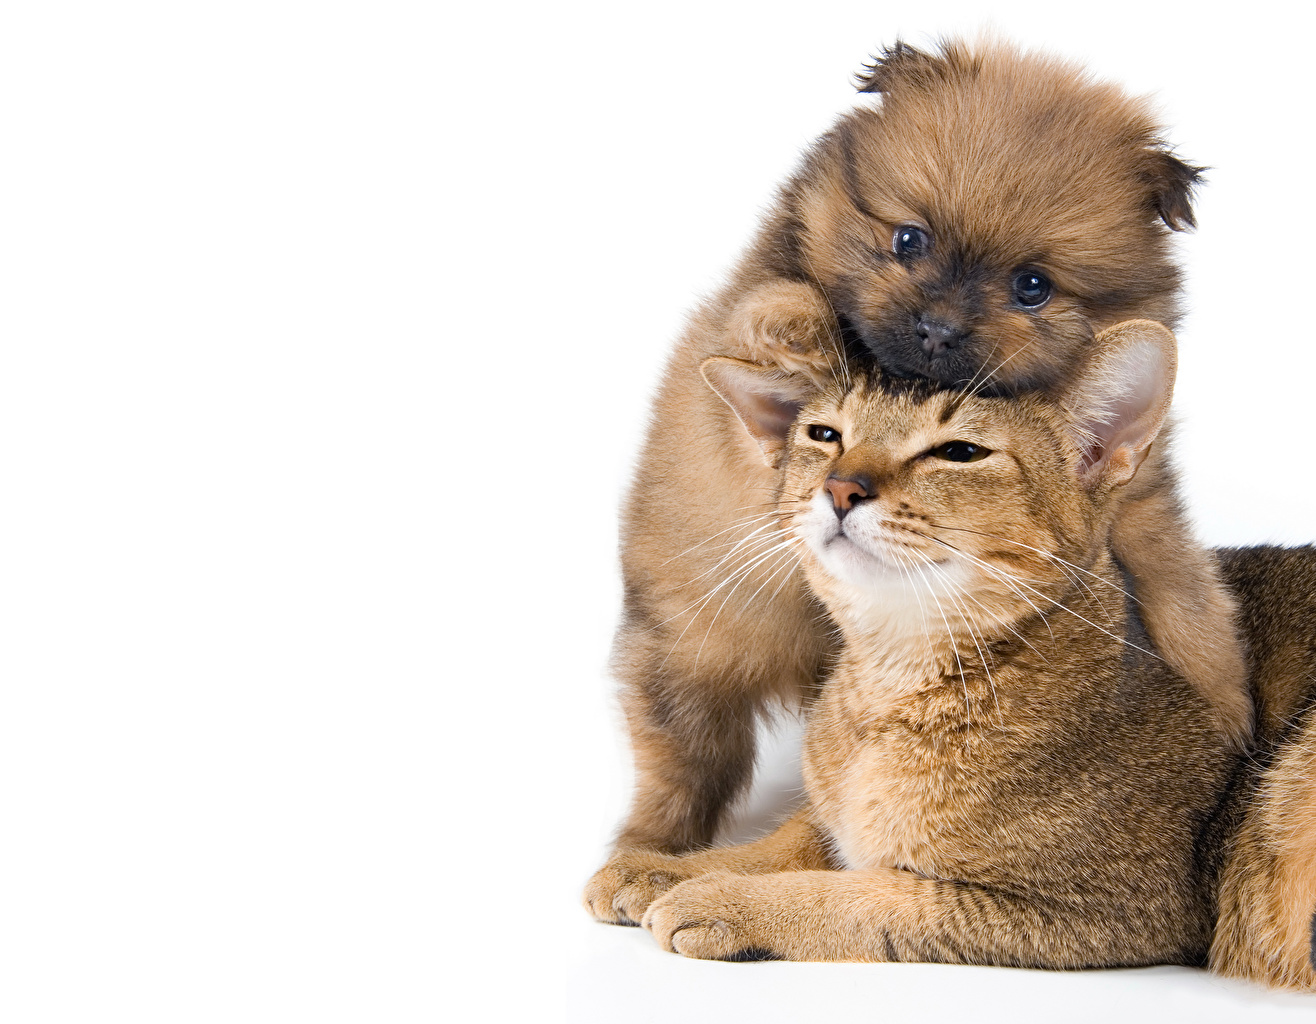
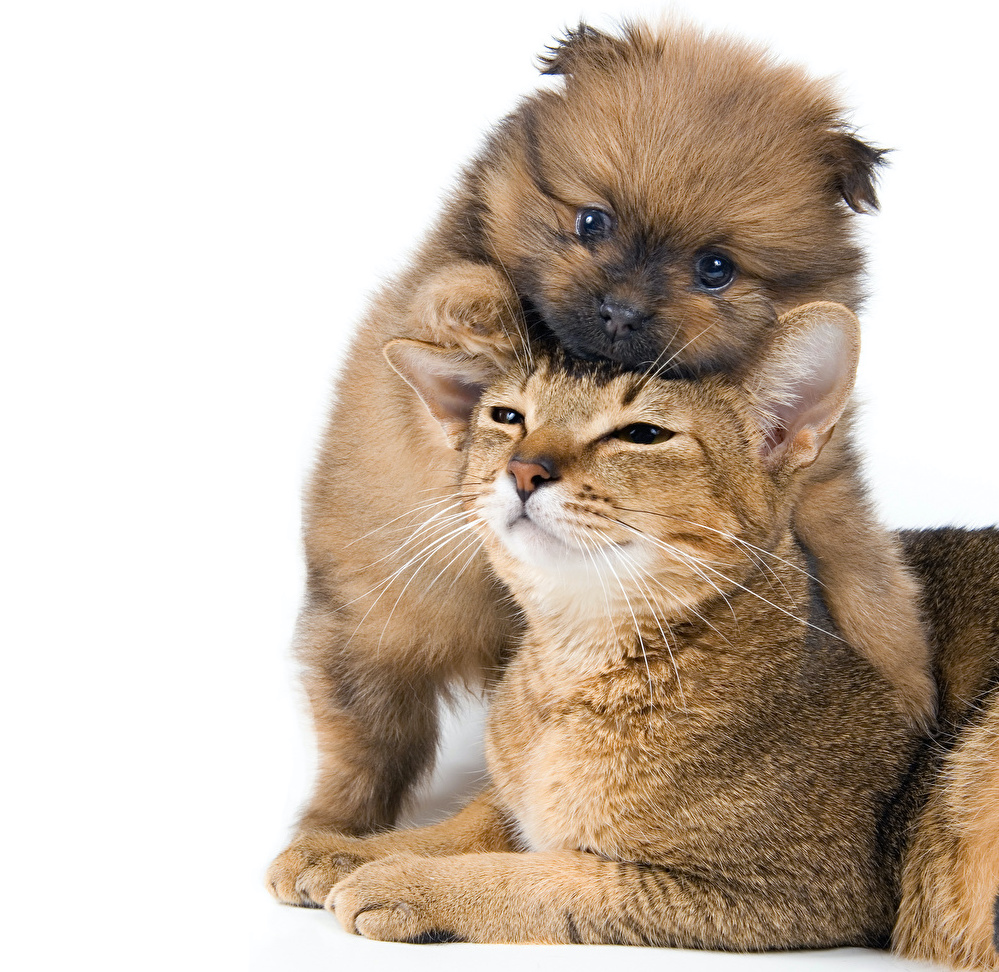
style sign up page

diff --git a/frontend/src/app/components/general/signup/signup.component.html b/frontend/src/app/components/general/signup/signup.component.html
@@ -1,10 +1,8 @@
- <div class="background">
-    <div class="content">
-        <p *ngIf="signUpSuccess">Signup Success. Login Now!</p>
-        <p *ngIf="errorMessage!=''">{{errorMessage}}</p>
-        <div class="title">
-            <h1>Join Us!</h1>
-        </div>
+ <div class="content">
+    <p *ngIf="signUpSuccess">Signup Success. Login Now!</p>
+    <p *ngIf="errorMessage!=''">{{errorMessage}}</p>
+    <div class="content-box">
+        <h1>Join Us!</h1>
         <p *ngIf="signUpForm.get('password_confirm').touched && signUpForm.hasError('notMatched')">Passwords do not match</p>
         <p *ngIf="signUpForm.get('email').invalid && signUpForm.get('email').touched"> Not a valid email</p>
 
@@ -44,5 +42,8 @@
                 <button type="submit" [disabled]="!signUpForm.valid" (click)="onSubmitSignUp()">Submit</button>
             </div>
         </form>
+    </div>
+    <div id="photo-one">
+        <img src="assets/img/leaves.jpg" width="500" >
     </div>
 </div>

diff --git a/frontend/src/app/components/general/signup/signup.component.css b/frontend/src/app/components/general/signup/signup.component.css
@@ -1,19 +1,20 @@
-.background {
-    background-image: url('./img/cat_dog.jpg');
-    background-repeat: no-repeat;
-    background-attachment: fixed;
-    background-position: right center;
-    height: 94vh;
-}
-
 .content {
-    padding-top: 2%;
-    padding-left: 25%;
+  background-color: #1e77aa;
+  height: 95vh;
+  width: 100%;
 }
 
-.title {
-    padding-bottom: 2%;
-    font-size: 30px;
+.content-box {
+  text-align: center;
+  margin-top: 4%;
+  z-index: 10;
+  position: absolute;
+  border-width: thin;
+  box-shadow: 5px 5px 20px;
+  background-color: #f8f8f8;
+  border-radius: 5px;
+  left: 28%;
+  padding: 30px;
 }
 
 .buttons {
@@ -22,4 +23,18 @@
 
 .button {
     margin-right: 10px;
+}
+
+#photo-one {
+  border-style: solid;
+  padding: 20px;
+  border-width: thin;
+  box-shadow: 5px 5px 20px;
+  background-color: #f8f8f8;
+  width: 540px;
+  position: absolute;
+  top: 20%;
+  left: 60%;
+  transform: rotate(30deg);
+  z-index: 5;
 }
